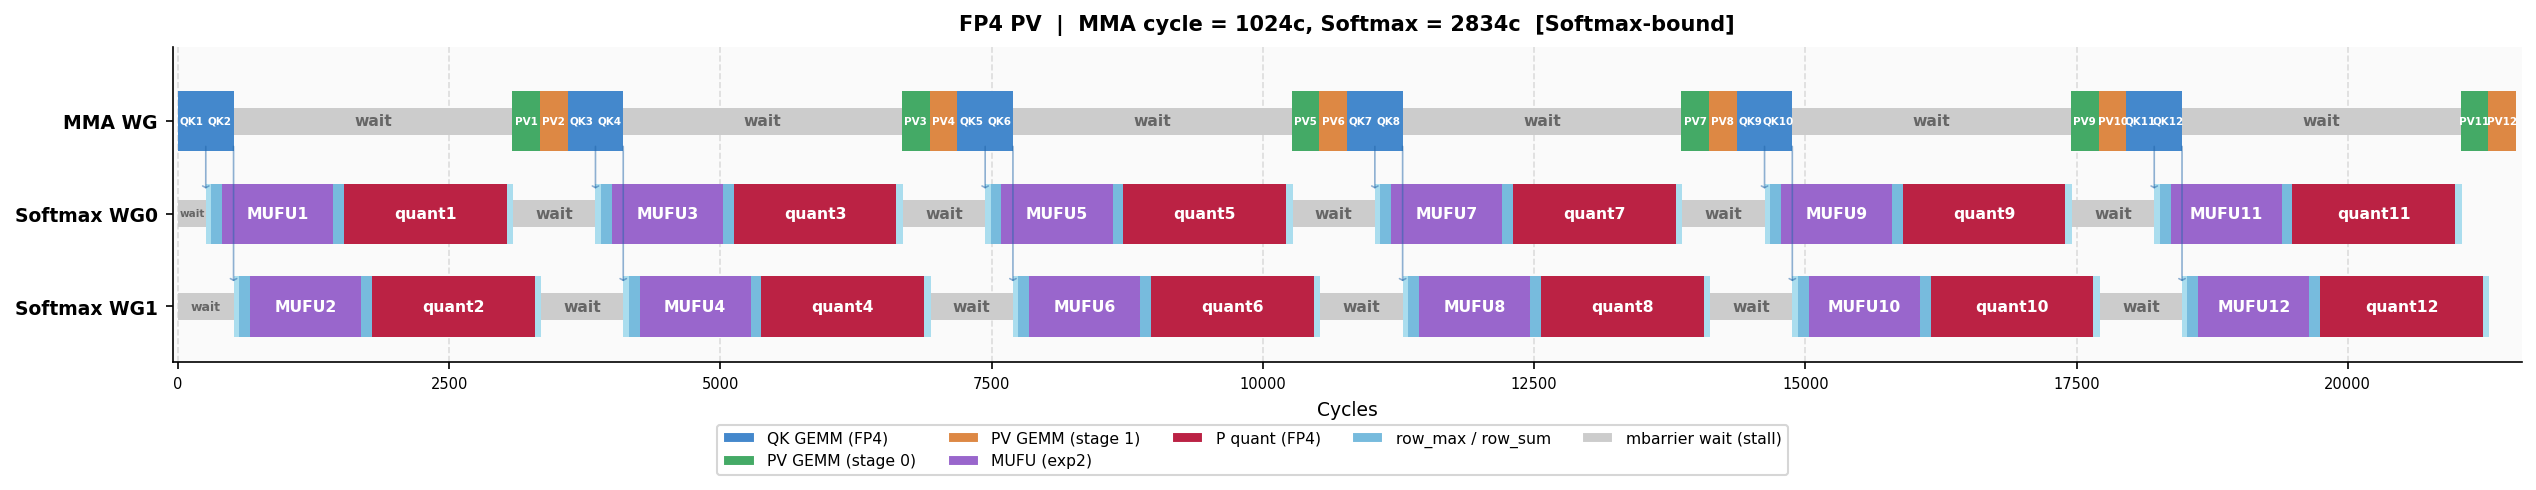
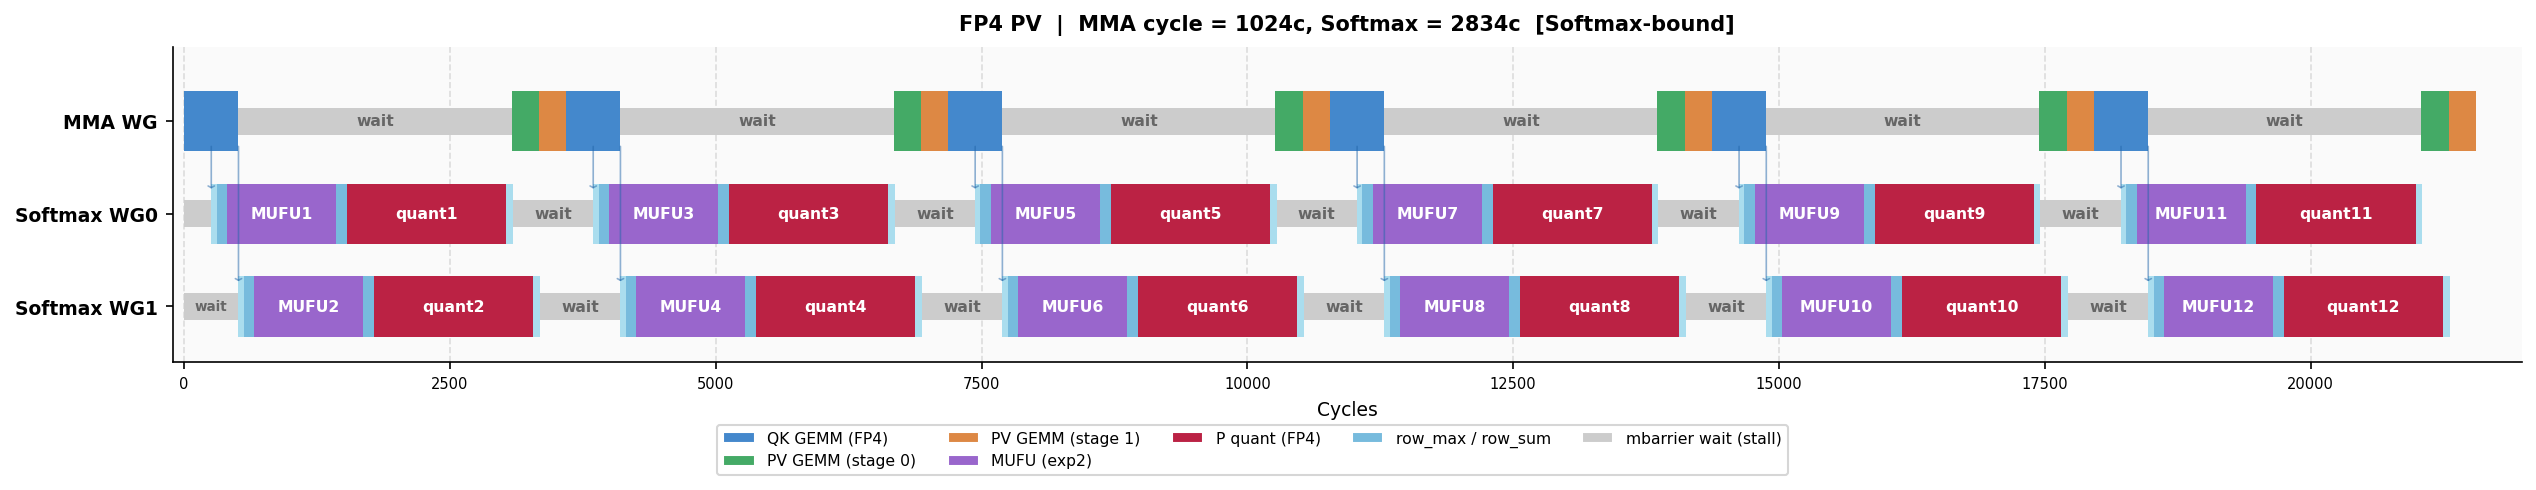
fix: model-graph layout — right margin, no labels on narrow bars
Bars ended exactly at the axis limit and looked cut off; add a 2% right
margin. Labels now require enough width for the text (>= 50px and
11px/char), so narrow bars (ldS, max, sum, wrP) are unlabeled instead of
cramped. Combined figure gets more headroom so the suptitle no longer
overlaps the first subplot title.

diff --git a/flash_attn/cute/debug/visualize_pipeline.py b/flash_attn/cute/debug/visualize_pipeline.py
@@ -316,19 +316,15 @@ def draw_timeline(ax, events: list[Event], y_center: float, bar_height: float,
         )
         ax.add_patch(rect)
 
-        # Label -- skip for very narrow bars, use smaller font for medium bars
+        # Label -- only bars wide enough to hold readable text; narrow bars
+        # (ldS, max, sum, wrP at typical scales) stay unlabeled.
         bar_px = ev.duration * x_scale
-        if ev.label and bar_px >= 25:
-            if bar_px >= 70:
-                fontsize = 7.5
-            elif bar_px >= 40:
-                fontsize = 6
-            else:
-                fontsize = 5
+        if ev.label and bar_px >= max(50, 11 * len(ev.label)):
             ax.text(
                 ev.start + ev.duration / 2, y_center,
                 ev.label, ha="center", va="center",
-                fontsize=fontsize, color=ev.text_color,
+                fontsize=7.5 if bar_px >= 80 else 6.5,
+                color=ev.text_color,
                 fontweight="bold", zorder=4,
                 clip_on=True,
             )
@@ -425,8 +421,8 @@ def render_mode(mode: PVMode, ax, n_iter: int = 6, fig_width_inches: float = 18.
                             y_positions[0], y_positions[1], y_positions[2],
                             bar_height)
 
-    # Axes configuration
-    ax.set_xlim(-50, total + 50)
+    # Axes configuration (2% right margin so the last bars don't touch the frame)
+    ax.set_xlim(-0.005 * total, 1.02 * total)
     ax.set_ylim(-0.6, 2.8)
     ax.set_yticks(y_positions)
     ax.set_yticklabels(row_labels, fontsize=9, fontweight="bold")
@@ -497,13 +493,13 @@ def main():
     out_dir = os.path.dirname(os.path.abspath(__file__))
 
     # --- Combined figure with all 3 PV modes ---
-    fig, axes = plt.subplots(3, 1, figsize=(18, 9), dpi=150)
-    fig.subplots_adjust(hspace=0.45, bottom=0.10, top=0.93, left=0.10, right=0.97)
+    fig, axes = plt.subplots(3, 1, figsize=(18, 9.5), dpi=150)
+    fig.subplots_adjust(hspace=0.50, bottom=0.10, top=0.88, left=0.10, right=0.97)
 
     fig.suptitle(
         "FA4 Kernel Pipeline: MMA vs Softmax Overlap on B300 (SM103)\n"
         "M = N = d = 128  |  QK: FP4, MMA WG + 2 Softmax WGs (double-buffered)",
-        fontsize=12, fontweight="bold", y=0.98,
+        fontsize=12, fontweight="bold", y=0.97,
     )
 
     for ax, mode in zip(axes, PV_MODES):
